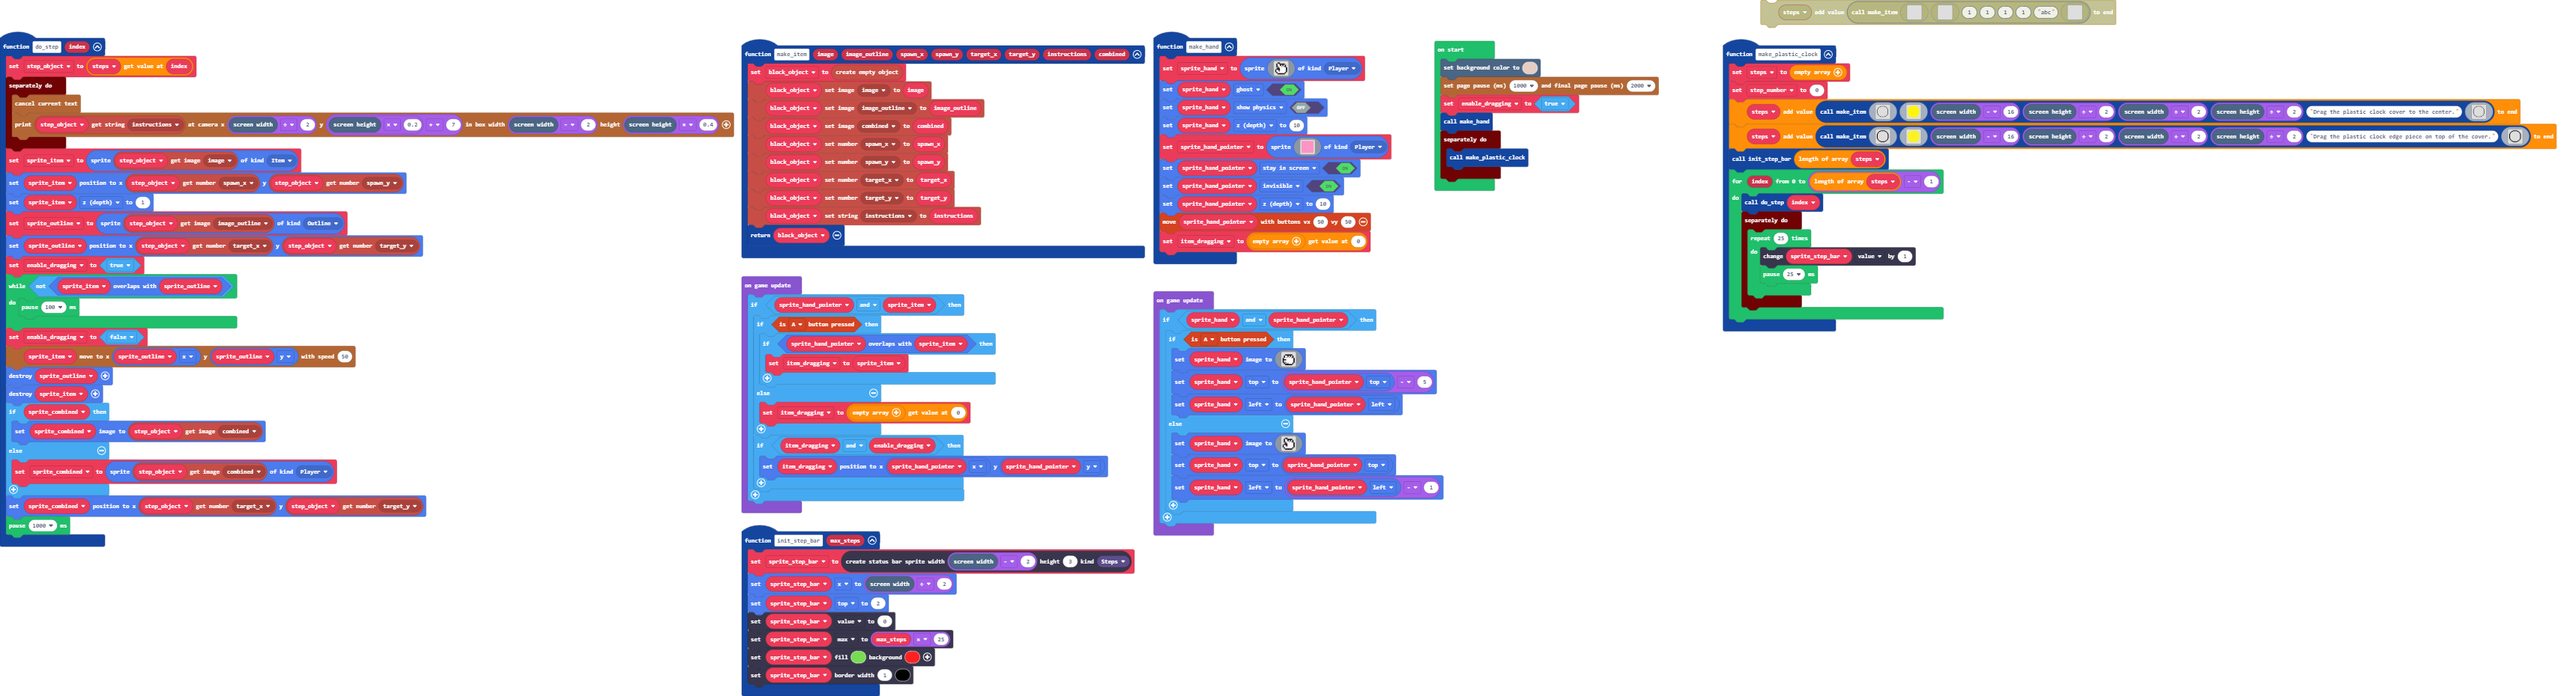
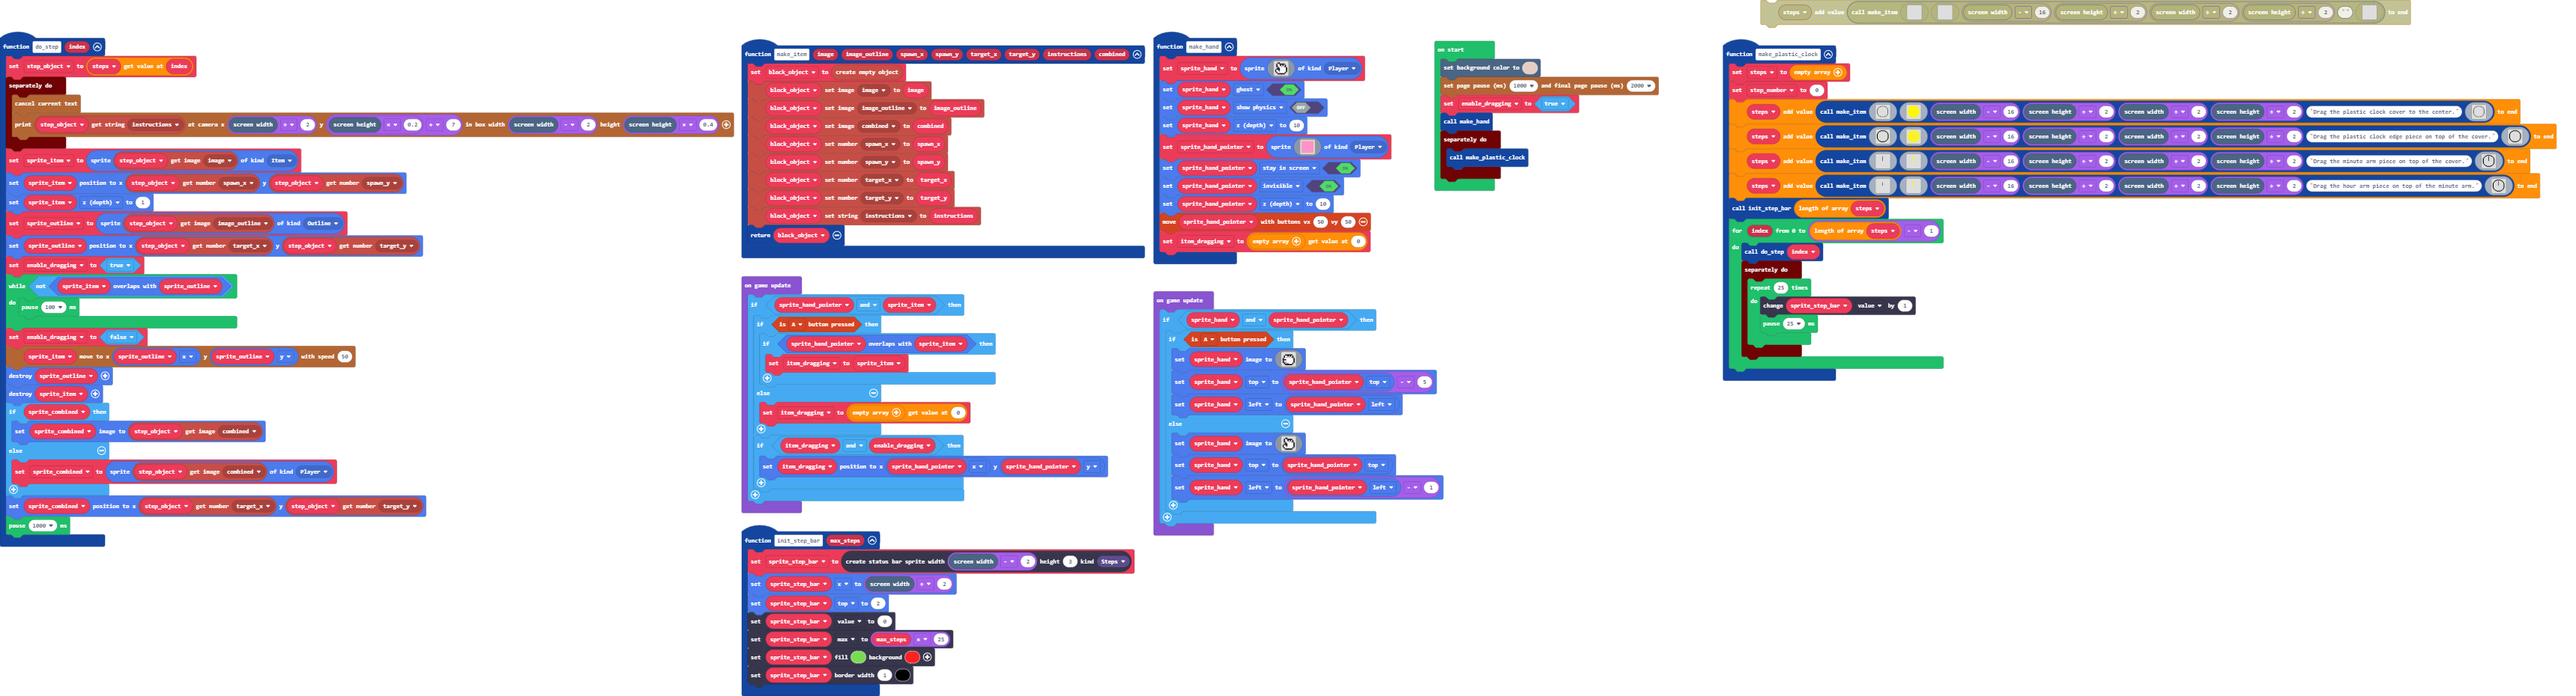
Add 2 more steps

Changed region(s): [[0.6536, 0.1871, 0.9959, 0.5613], [0.7469, 0.0, 0.9337, 0.0624]]

diff --git a/images.g.ts b/images.g.ts
@@ -244,6 +244,216 @@ ff...........................ff.
 ..........fffffffffff...........
 ................................
 `;
+            case "]##a_2Q,U*!v{;:,XAm2":
+            case "plastic_clock_minute_arm":return img`
+................................
+................................
+................................
+...............f................
+...............f................
+...............f................
+...............f................
+...............f................
+...............f................
+...............f................
+...............f................
+...............f................
+...............f................
+...............f................
+...............f................
+...............f................
+................................
+................................
+................................
+................................
+................................
+................................
+................................
+................................
+................................
+................................
+................................
+................................
+................................
+................................
+................................
+................................
+`;
+            case "%^{8H$KT(J8":
+            case "plastic_clock_minute_arm_outline":return img`
+................................
+................................
+..............555...............
+..............555...............
+..............555...............
+..............555...............
+..............555...............
+..............555...............
+..............555...............
+..............555...............
+..............555...............
+..............555...............
+..............555...............
+..............555...............
+..............555...............
+..............555...............
+..............555...............
+................................
+................................
+................................
+................................
+................................
+................................
+................................
+................................
+................................
+................................
+................................
+................................
+................................
+................................
+................................
+`;
+            case "RE7Eu~[uJ{0w-X2{)%$H":
+            case "plastic_clock_step_3":return img`
+..........fffffffffff...........
+........fffffffffffffff.........
+......ffff...........ffff.......
+.....fff.......f.......fff......
+....ff.........f.........ff.....
+...ff..........f..........ff....
+..ff...........f...........ff...
+..ff...........f...........ff...
+.ff............f............ff..
+.ff............f............ff..
+ff.............f.............ff.
+ff.............f.............ff.
+ff.............f.............ff.
+ff.............f.............ff.
+ff.............f.............ff.
+ff.............f.............ff.
+ff...........................ff.
+ff...........................ff.
+ff...........................ff.
+ff...........................ff.
+ff...........................ff.
+.ff.........................ff..
+.ff.........................ff..
+..ff.......................ff...
+..ff.......................ff...
+...ff.....................ff....
+....ff...................ff.....
+.....fff...............fff......
+......ffff...........ffff.......
+........fffffffffffffff.........
+..........fffffffffff...........
+................................
+`;
+            case "JsZA!E(v,+mUo~_sy":
+            case "plastic_clock_hour_arm":return img`
+................................
+................................
+................................
+................................
+................................
+................................
+................................
+...............f................
+...............f................
+...............f................
+...............f................
+...............f................
+...............f................
+...............f................
+...............f................
+...............f................
+................................
+................................
+................................
+................................
+................................
+................................
+................................
+................................
+................................
+................................
+................................
+................................
+................................
+................................
+................................
+................................
+`;
+            case "~M8^wN74y*!HCm4)PG_u":
+            case "plastic_clock_hour_arm_outline":return img`
+................................
+................................
+................................
+................................
+................................
+................................
+..............555...............
+..............555...............
+..............555...............
+..............555...............
+..............555...............
+..............555...............
+..............555...............
+..............555...............
+..............555...............
+..............555...............
+..............555...............
+................................
+................................
+................................
+................................
+................................
+................................
+................................
+................................
+................................
+................................
+................................
+................................
+................................
+................................
+................................
+`;
+            case "14^Q8[a6:5smQK8bmRS)":
+            case "plastic_clock_step_4":return img`
+..........fffffffffff...........
+........fffffffffffffff.........
+......ffff...........ffff.......
+.....fff.......f.......fff......
+....ff.........f.........ff.....
+...ff..........f..........ff....
+..ff...........f...........ff...
+..ff...........f...........ff...
+.ff............f............ff..
+.ff............f............ff..
+ff.............f.............ff.
+ff.............f.............ff.
+ff.............f.............ff.
+ff.............f.............ff.
+ff.............f.............ff.
+ff.............f.............ff.
+ff...........................ff.
+ff...........................ff.
+ff...........................ff.
+ff...........................ff.
+ff...........................ff.
+.ff.........................ff..
+.ff.........................ff..
+..ff.......................ff...
+..ff.......................ff...
+...ff.....................ff....
+....ff...................ff.....
+.....fff...............fff......
+......ffff...........ffff.......
+........fffffffffffffff.........
+..........fffffffffff...........
+................................
+`;
         }
         return null;
     })

diff --git a/main.ts b/main.ts
@@ -84,6 +84,8 @@ function make_plastic_clock () {
     step_number = 0
     steps.push(make_item(assets.image`plastic_clock_face`, assets.image`plastic_clock_face_outline`, scene.screenWidth() - 16, scene.screenHeight() / 2, scene.screenWidth() / 2, scene.screenHeight() / 2, "Drag the plastic clock cover to the center.", assets.image`plastic_clock_step_1`))
     steps.push(make_item(assets.image`plastic_clock_edge`, assets.image`plastic_clock_edge_outline`, scene.screenWidth() - 16, scene.screenHeight() / 2, scene.screenWidth() / 2, scene.screenHeight() / 2, "Drag the plastic clock edge piece on top of the cover.", assets.image`plastic_clock_step_2`))
+    steps.push(make_item(assets.image`plastic_clock_minute_arm`, assets.image`plastic_clock_minute_arm_outline`, scene.screenWidth() - 16, scene.screenHeight() / 2, scene.screenWidth() / 2, scene.screenHeight() / 2, "Drag the minute arm piece on top of the cover.", assets.image`plastic_clock_step_3`))
+    steps.push(make_item(assets.image`plastic_clock_hour_arm`, assets.image`plastic_clock_hour_arm_outline`, scene.screenWidth() - 16, scene.screenHeight() / 2, scene.screenWidth() / 2, scene.screenHeight() / 2, "Drag the hour arm piece on top of the minute arm.", assets.image`plastic_clock_step_4`))
     init_step_bar(steps.length)
     for (let index = 0; index <= steps.length - 1; index++) {
         do_step(index)
